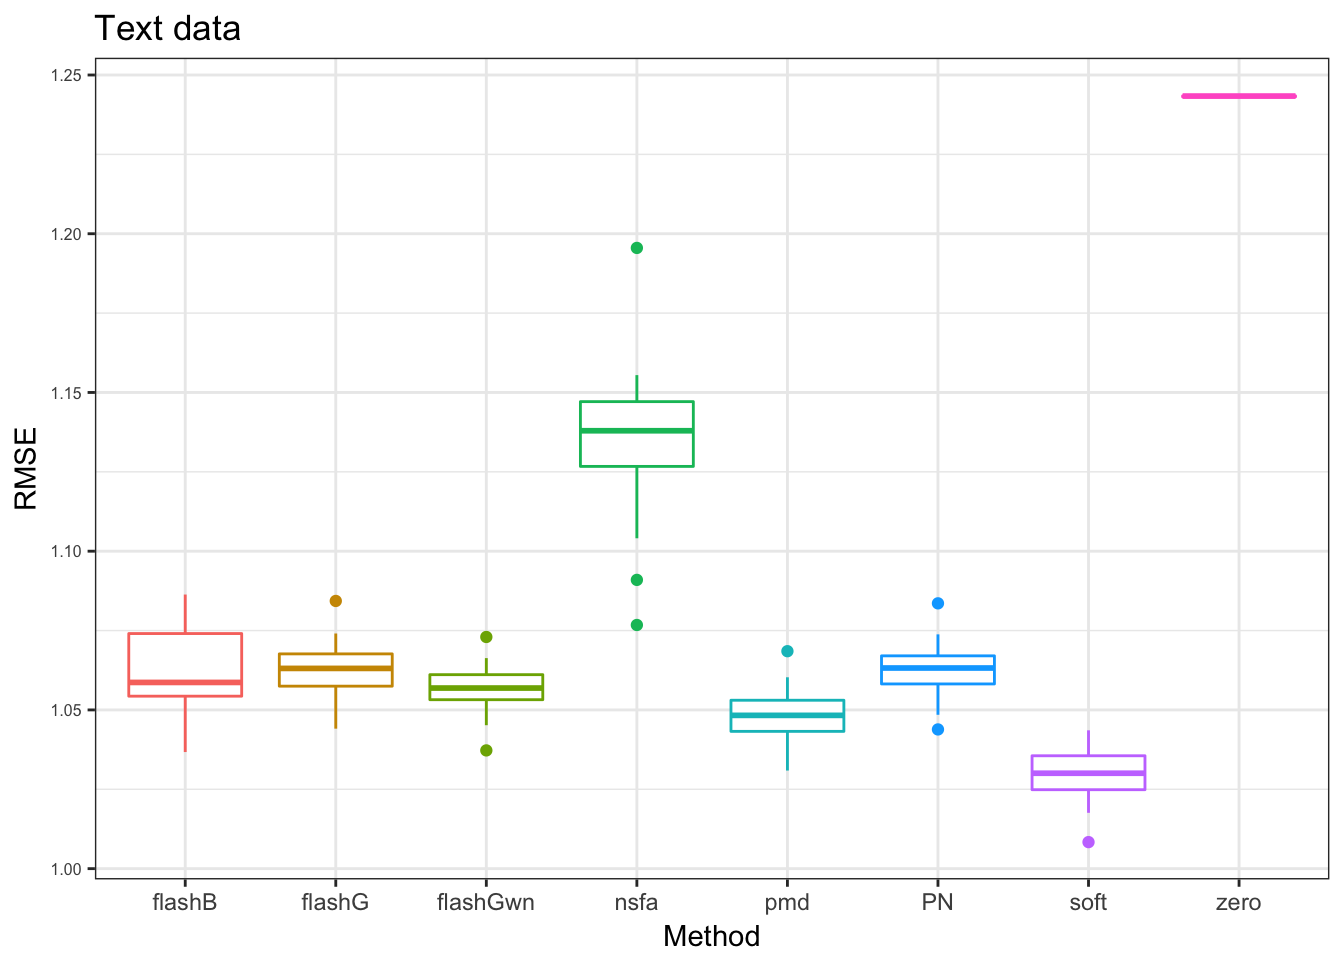
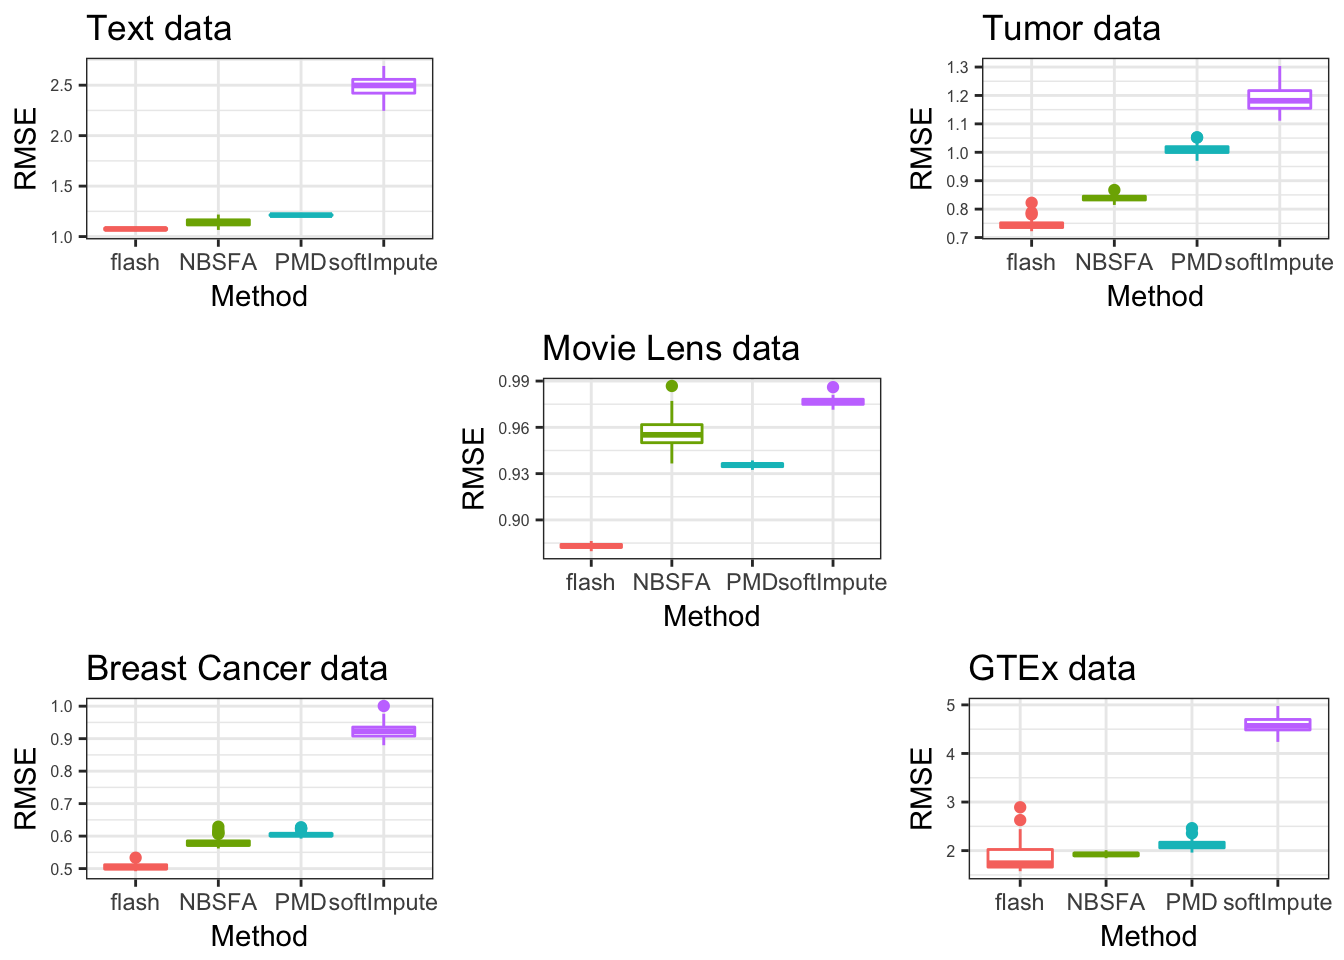
Build site.

diff --git a/docs/OCVmissdataSetting.html b/docs/OCVmissdataSetting.html
@@ -316,10 +316,61 @@ shared across the workflowr files. -->
 <p><strong>Last updated:</strong> 2018-01-25</p>
 <!-- Insert the code version (Git commit SHA1) if Git repository exists and R
  package git2r is installed -->
-<p><strong>Code version:</strong> 1b8a705</p>
+<p><strong>Code version:</strong> d65ade1</p>
 <!-- Add your analysis here -->
 <div id="settings-for-the-5-data-sets-in-our-paper." class="section level2">
 <h2>settings for the 5 data sets in our paper.</h2>
+<div id="gtex-zsocre" class="section level3">
+<h3>GTEx zsocre</h3>
+<pre class="r"><code>library(R.matlab)</code></pre>
+<pre><code>R.matlab v3.6.1 (2016-10-19) successfully loaded. See ?R.matlab for help.</code></pre>
+<pre><code>
+Attaching package: &#39;R.matlab&#39;</code></pre>
+<pre><code>The following objects are masked from &#39;package:base&#39;:
+
+    getOption, isOpen</code></pre>
+<pre class="r"><code>Y_centered = readMat(&quot;../data/output/missingdata/GTExZsocre/example.mat&quot;)
+Y = Y_centered$Ycentered</code></pre>
+</div>
+<div id="movielens" class="section level3">
+<h3>MovieLens</h3>
+<pre class="r"><code>library(methods)
+library(R.matlab)
+library(Matrix)
+## run the code
+ml100K_data = readRDS(&quot;../data/output/missingdata/MovieLens/scale_data.rds&quot;)
+MLMatrix &lt;- sparseMatrix(i = ml100K_data[,1],
+                         j = ml100K_data[,2],
+                         x = ml100K_data[,3],dims = c(943,1682))
+# turn this sparse matrix into matrix in r
+Y = as.matrix(MLMatrix)
+Y[which(Y == 0)] = NA
+# writeMat(&quot;~/HG/flash/data/OCVmissflashr2/ML100K_scaled/Ydata.mat&quot;, Y = Y)</code></pre>
+</div>
+<div id="denoiser-tumor-data" class="section level3">
+<h3>denoiseR tumor data</h3>
+<pre class="r"><code>library(R.matlab)
+Y_centered = readMat(&quot;../data/output/missingdata/DenoiseRtumor/example.mat&quot;)
+Y = Y_centered$Ycentered</code></pre>
+</div>
+<div id="denoiser-text-data" class="section level3">
+<h3>denoiseR text data</h3>
+<pre class="r"><code>library(R.matlab)
+## run the code
+Y_centered = readMat(&quot;../data/output/missingdata/DenoiseRtext/example.mat&quot;)
+Y = Y_centered$Yscaled</code></pre>
+</div>
+<div id="breast-cancer-data" class="section level3">
+<h3>Breast cancer data</h3>
+<pre class="r"><code>library(R.matlab)
+## run the code
+Y_centered = readMat(&quot;../data/output/missingdata/BreastCancer/example.mat&quot;)
+Y = Y_centered$Y
+# in the matlab package of NSF, the use the centered data by rows
+N = dim(Y)[1]
+P = dim(Y)[2]
+Y = Y - rowMeans(Y) %*% t(rep(1,P))</code></pre>
+</div>
 </div>
 <div id="other-experiments-during-the-test" class="section level2">
 <h2>other experiments during the test</h2>
@@ -355,7 +406,7 @@ pM = plot_res(ML_res,&quot;Movie Lens data&quot;,x_label = x_label)</code></pre>
 <h2>plots</h2>
 <pre class="r"><code>gridExtra::grid.arrange(pp,pd,pg,pb,pM, layout_matrix = rbind(c(1,NA,2),c(NA,5,NA),c(4,NA,3)))</code></pre>
 <pre><code>Warning: Removed 48 rows containing non-finite values (stat_boxplot).</code></pre>
-<p><img src="figure/OCVmissdataSetting.Rmd/unnamed-chunk-2-1.png" width="672" style="display: block; margin: auto;" /></p>
+<p><img src="figure/OCVmissdataSetting.Rmd/unnamed-chunk-7-1.png" width="672" style="display: block; margin: auto;" /></p>
 </div>
 <div id="results-for-different-tuning-parameters" class="section level2">
 <h2>results for different tuning parameters</h2>
@@ -365,11 +416,11 @@ x_label= c(&quot;flash&quot;,&quot;NBSFA&quot;,pmd_c,softImpute_c)
 PT_res = readRDS(&quot;../data/missingvalue/box_res_grids_sf_pmd/denoiseTumor_box.rds&quot;)
 pt = plot_res(PT_res,&quot;Tumor data&quot;,x_label = x_label)
 pt</code></pre>
-<p><img src="figure/OCVmissdataSetting.Rmd/unnamed-chunk-3-1.png" width="672" style="display: block; margin: auto;" /></p>
+<p><img src="figure/OCVmissdataSetting.Rmd/unnamed-chunk-8-1.png" width="672" style="display: block; margin: auto;" /></p>
 <pre class="r"><code>PT_res = readRDS(&quot;../data/missingvalue/box_res_grids_sf_pmd/TEXT_prsdt_box.rds&quot;)
 pp = plot_res(PT_res,&quot;Text data&quot;,x_label = x_label)
 pp</code></pre>
-<p><img src="figure/OCVmissdataSetting.Rmd/unnamed-chunk-3-2.png" width="672" style="display: block; margin: auto;" /></p>
+<p><img src="figure/OCVmissdataSetting.Rmd/unnamed-chunk-8-2.png" width="672" style="display: block; margin: auto;" /></p>
 </div>
 <div id="use-ocv-choose-the-tuning-parameters" class="section level2">
 <h2>use OCV choose the tuning parameters</h2>
@@ -419,28 +470,28 @@ pp</code></pre>
 </tr>
 </tbody>
 </table>
-<div id="breast-cancer-data" class="section level3">
+<div id="breast-cancer-data-1" class="section level3">
 <h3>Breast Cancer data</h3>
 <p>we use 10 grids for <code>softImpute</code> and <code>PMD</code></p>
 <pre class="r"><code>PB_res = readRDS(&quot;../data/missingvalue/testingcode/box_Breast.rds&quot;)
 x_label= c(&quot;PN&quot;,&quot;flashG&quot;,&quot;flashGwn&quot;,&quot;flashB&quot;,&quot;nsfa&quot;,&quot;pmd&quot;,&quot;soft&quot;)
 pb = plot_res(PB_res,&quot;Breast Cancer data&quot;,x_label = x_label)
 pb</code></pre>
-<p><img src="figure/OCVmissdataSetting.Rmd/unnamed-chunk-4-1.png" width="672" style="display: block; margin: auto;" /></p>
+<p><img src="figure/OCVmissdataSetting.Rmd/unnamed-chunk-9-1.png" width="672" style="display: block; margin: auto;" /></p>
 <p>we take the ‘flashB’ away to compare the rest.</p>
 <pre class="r"><code>x_label= c(&quot;PN&quot;,&quot;flashG&quot;,&quot;flashGwn&quot;,&quot;nsfa&quot;,&quot;pmd&quot;,&quot;soft&quot;)
 pb = plot_res(PB_res[,-4],&quot;Breast Cancer data&quot;,x_label = x_label)
 pb</code></pre>
-<p><img src="figure/OCVmissdataSetting.Rmd/unnamed-chunk-5-1.png" width="672" style="display: block; margin: auto;" /></p>
+<p><img src="figure/OCVmissdataSetting.Rmd/unnamed-chunk-10-1.png" width="672" style="display: block; margin: auto;" /></p>
 </div>
-<div id="denoiser-tumor-data" class="section level3">
+<div id="denoiser-tumor-data-1" class="section level3">
 <h3>denoiseR Tumor data</h3>
 <p>we use 10 grids for <code>softImpute</code> and <code>PMD</code></p>
 <pre class="r"><code>PT_res = readRDS(&quot;../data/missingvalue/testingcode/box_denoiseTumor.rds&quot;)
 x_label= c(&quot;PN&quot;,&quot;flashG&quot;,&quot;flashGwn&quot;,&quot;flashB&quot;,&quot;nsfa&quot;,&quot;pmd&quot;,&quot;soft&quot;)
 pt = plot_res(PT_res,&quot;Tumor data&quot;,x_label = x_label)
 pt</code></pre>
-<p><img src="figure/OCVmissdataSetting.Rmd/unnamed-chunk-6-1.png" width="672" style="display: block; margin: auto;" /></p>
+<p><img src="figure/OCVmissdataSetting.Rmd/unnamed-chunk-11-1.png" width="672" style="display: block; margin: auto;" /></p>
 </div>
 <div id="text-data" class="section level3">
 <h3>text data</h3>
@@ -449,7 +500,7 @@ pt</code></pre>
 x_label= c(&quot;PN&quot;,&quot;flashG&quot;,&quot;flashGwn&quot;,&quot;flashB&quot;,&quot;nsfa&quot;,&quot;pmd&quot;,&quot;soft&quot;,&quot;zero&quot;)
 pt = plot_res(PT_res,&quot;Text data&quot;,x_label = x_label)
 pt</code></pre>
-<p><img src="figure/OCVmissdataSetting.Rmd/unnamed-chunk-7-1.png" width="672" style="display: block; margin: auto;" /></p>
+<p><img src="figure/OCVmissdataSetting.Rmd/unnamed-chunk-12-1.png" width="672" style="display: block; margin: auto;" /></p>
 </div>
 </div>
 <div id="session-information" class="section level2">
@@ -467,25 +518,26 @@ attached base packages:
 [1] stats     graphics  grDevices utils     datasets  methods   base     
 
 other attached packages:
- [1] MASS_7.3-47     workflowr_0.4.0 rmarkdown_1.6   reshape2_1.4.3 
- [5] ebnm_0.1-7      softImpute_1.4  Matrix_1.2-11   ssvd_1.0       
- [9] flashr2_0.4-0   PMA_1.0.9       impute_1.48.0   plyr_1.8.4     
-[13] ggplot2_2.2.1  
+ [1] R.matlab_3.6.1  MASS_7.3-47     workflowr_0.4.0 rmarkdown_1.6  
+ [5] reshape2_1.4.3  ebnm_0.1-7      softImpute_1.4  Matrix_1.2-11  
+ [9] ssvd_1.0        flashr2_0.4-0   PMA_1.0.9       impute_1.48.0  
+[13] plyr_1.8.4      ggplot2_2.2.1  
 
 loaded via a namespace (and not attached):
- [1] Rcpp_0.12.14      git2r_0.19.0      iterators_1.0.9  
- [4] tools_3.3.0       digest_0.6.13     evaluate_0.10.1  
- [7] tibble_1.3.4      gtable_0.2.0      lattice_0.20-35  
-[10] rlang_0.1.6       foreach_1.4.4     rstudioapi_0.6   
-[13] yaml_2.1.16       parallel_3.3.0    gridExtra_2.3    
-[16] stringr_1.2.0     knitr_1.18        REBayes_0.85     
-[19] rprojroot_1.2     grid_3.3.0        flashr_0.1.1     
-[22] ashr_2.2-3        magrittr_1.5      backports_1.1.2  
-[25] scales_0.4.1      codetools_0.2-15  htmltools_0.3.6  
-[28] assertthat_0.2.0  colorspace_1.3-2  labeling_0.3     
-[31] stringi_1.1.6     Rmosek_7.1.2      lazyeval_0.2.0   
-[34] pscl_1.5.2        doParallel_1.0.11 munsell_0.4.3    
-[37] truncnorm_1.0-7   SQUAREM_2017.10-1</code></pre>
+ [1] Rcpp_0.12.14      git2r_0.19.0      R.utils_2.5.0    
+ [4] R.methodsS3_1.7.1 iterators_1.0.9   tools_3.3.0      
+ [7] digest_0.6.13     evaluate_0.10.1   tibble_1.3.4     
+[10] gtable_0.2.0      lattice_0.20-35   rlang_0.1.6      
+[13] foreach_1.4.4     rstudioapi_0.6    yaml_2.1.16      
+[16] parallel_3.3.0    gridExtra_2.3     stringr_1.2.0    
+[19] knitr_1.18        REBayes_0.85      rprojroot_1.2    
+[22] grid_3.3.0        flashr_0.1.1      ashr_2.2-3       
+[25] magrittr_1.5      backports_1.1.2   scales_0.4.1     
+[28] codetools_0.2-15  htmltools_0.3.6   assertthat_0.2.0 
+[31] colorspace_1.3-2  labeling_0.3      stringi_1.1.6    
+[34] Rmosek_7.1.2      lazyeval_0.2.0    pscl_1.5.2       
+[37] doParallel_1.0.11 munsell_0.4.3     truncnorm_1.0-7  
+[40] SQUAREM_2017.10-1 R.oo_1.21.0      </code></pre>
 </div>
 
 <hr>
